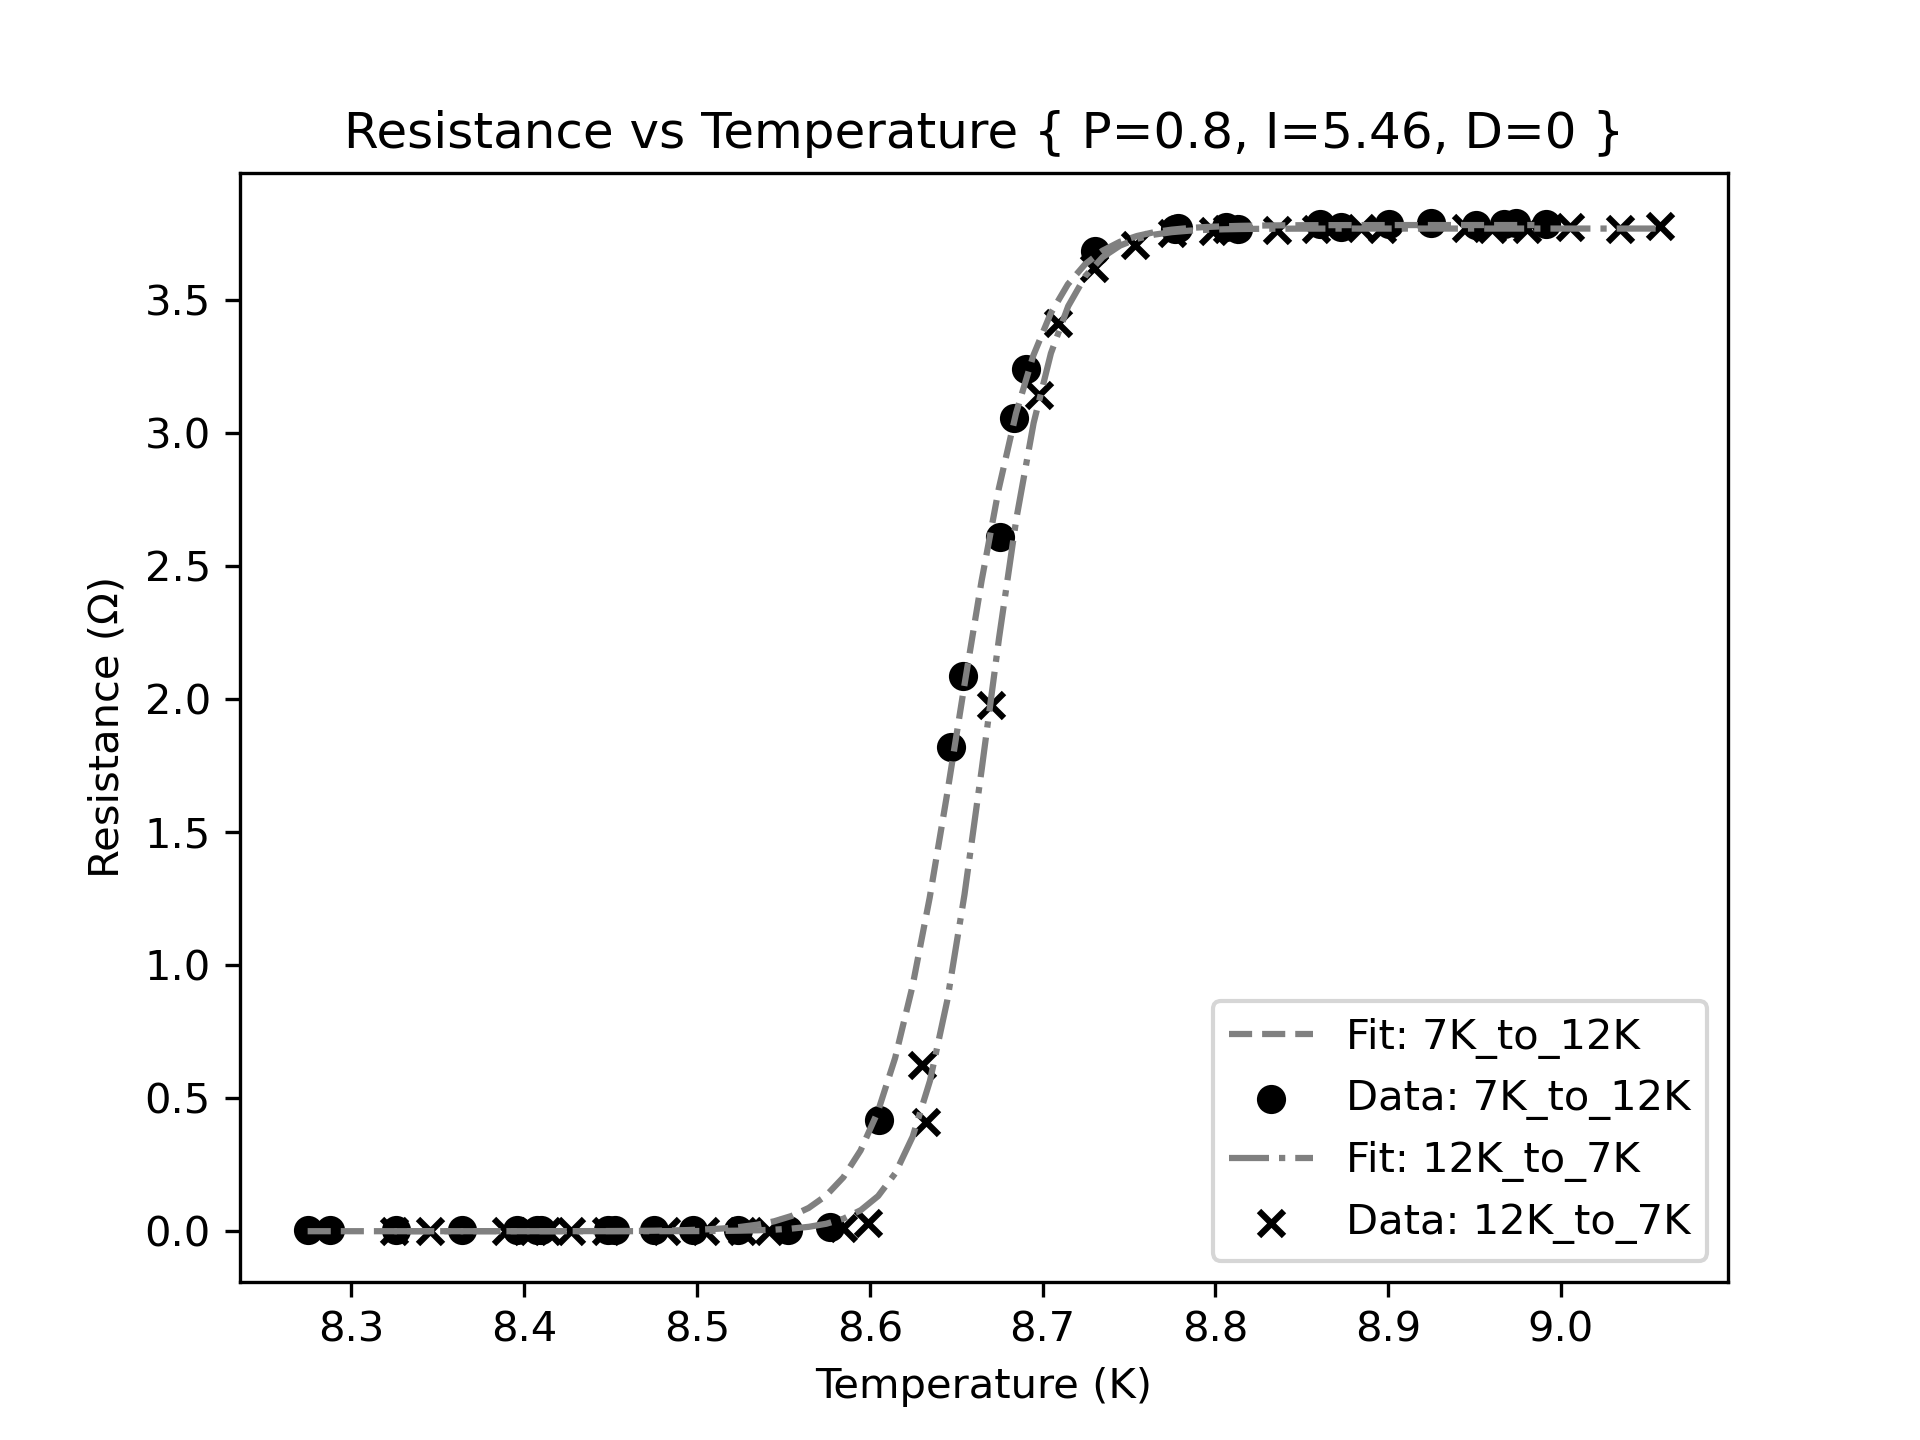
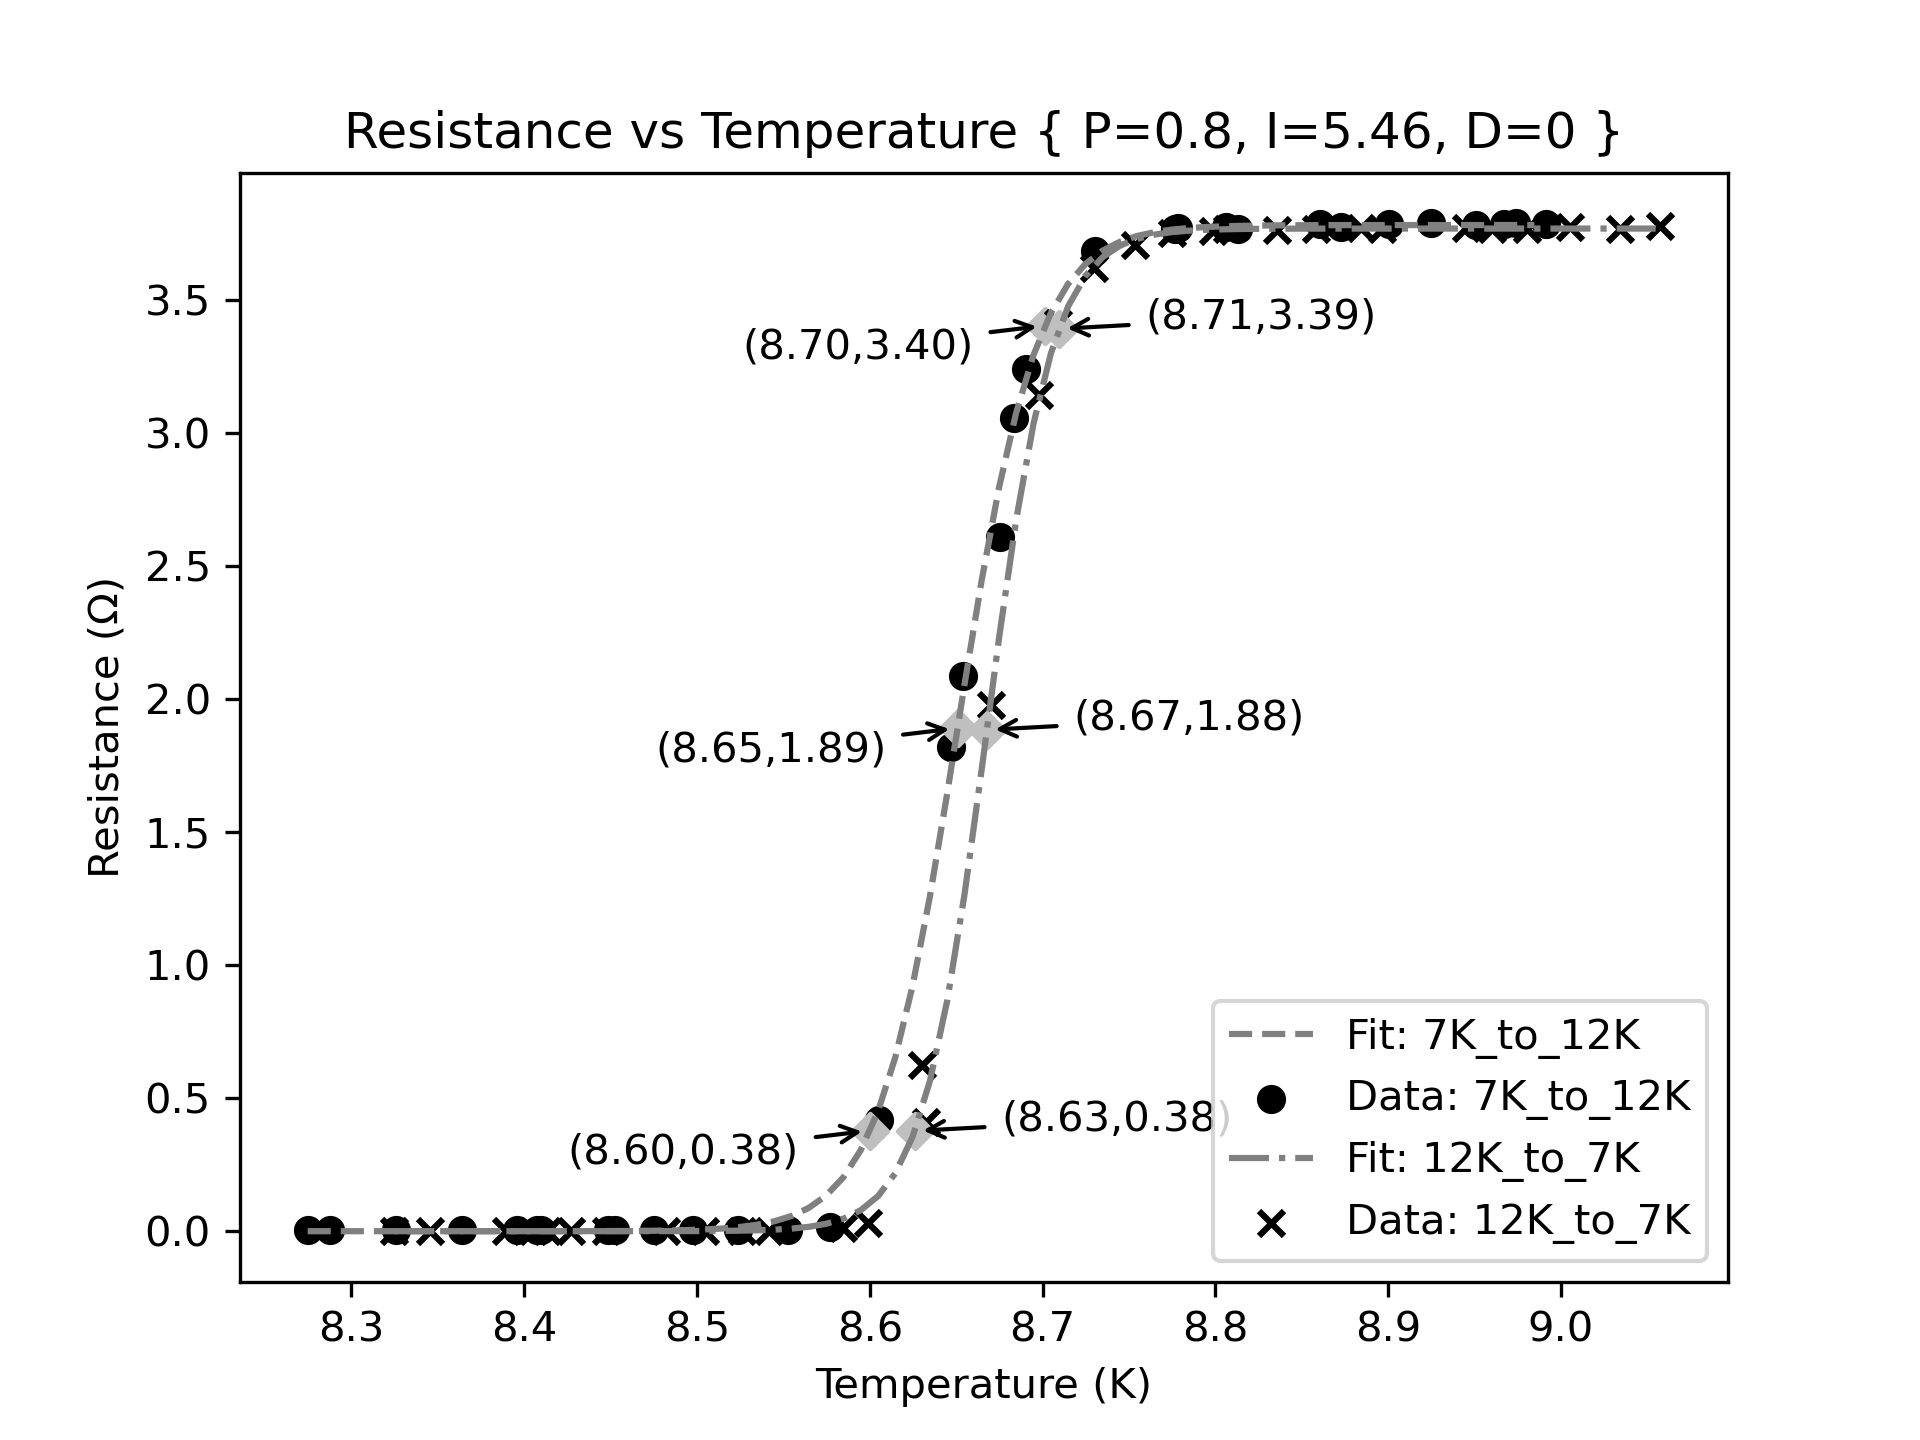
finnaly got the graph looking good fro 2.0 and 2.1 now to repeate for the rest (this isnt wortht the time investment)

diff --git a/2_Superconducting_Transition/2.0-1.py b/2_Superconducting_Transition/2.0-1.py
@@ -3,49 +3,87 @@ import matplotlib.pyplot as plt
 import re
 from pandas import read_csv
 from scipy.optimize import curve_fit
+from math import log10, floor
 
+def round_sig(x, sig=1):
+    return round(x, sig-int(floor(log10(abs(x))))-1)
 
 def sigmoid(x, a, b, c):
     return (a / (1 + np.exp(-b * (x + c))))
 
-def get_data(file, start, stop, current, init_vals):
-    file_data = read_csv(file)
-    volt_data = file_data.get("Amplitude (V)").to_numpy()[start:stop]
-    temp_data = file_data.get("Temperature (K)").to_numpy()[start:stop]
-    resi_data = volt_data/current
-    fit, _ = curve_fit(sigmoid, temp_data, resi_data, p0=init_vals)
-    temp_start, temp_stop = temp_data[0], temp_data[-1]
-    if temp_start < temp_stop:
-        temp_fit = np.arange(temp_start, temp_stop, 0.01)
-    else:
-        temp_fit = np.arange(temp_stop, temp_start, 0.01)
-    volt_fit = sigmoid(temp_fit, *fit)
-    label = re.findall(r'(\d{1,2}K_to_\d{1,2}K)', file)
-    return ((temp_data, resi_data, f"Data: {label[0]}"), (temp_fit, volt_fit, f"Fit: {label[0]}"), fit)
-
 def inv_sigmoid(y, a, b, c):
     return ((-1/b) * np.log((a/y) - 1)) - c
 
-def get_T_vals(func, a, b, c):
-    t_50 = func(0.5 * a, a, b, c)
-    t_10 = func(0.1 * a, a, b, c)
-    t_90 = func(0.9 * a, a, b, c)
-    return (t_50, t_90 - t_10, a)
+def print_fit_perams(label, ps, pcov):
+    print(f"{label}:")
+    pname = ["a", "b", "c"]
+    perr = np.sqrt(np.diag(pcov)) # one standard deviation errors
+    for p, err, name in zip(ps, perr, pname):
+        err = round_sig(err)
+        dec = len(str(err))-2
+        print(f"\t{name}: {p:1.{dec}f} ± {err}")
 
-data_20 = get_data("2.0_Ramp_7K_to_12K.csv", 60, 93, 9.5e-4, [3.762, 36, -8.7])
-data_21 = get_data("2.1_Ramp_12K_to_7K.csv", 133, 166, 9.5e-4, [3.76, 36, -8.65])
+def get_data(file, section, current, init_vals, fit_func):
+    file_data = read_csv(file)
+    # Extract the raw data lists from the data dictionary, and take a slice of the area of iterest
+    volt_data = file_data.get("Amplitude (V)").to_numpy()[section[0]:section[1]]
+    temp_data = file_data.get("Temperature (K)").to_numpy()[section[0]:section[1]]
+    # Convert the volateg value to a resistance
+    resi_data = volt_data/current
+    # Generate points for the fitted curve
+    temp_fit, resi_fit, fit, fit_cov = get_fit(fit_func, temp_data, resi_data, init_vals) 
+    # Pull out the temperature range from the file name
+    label = re.findall(r'(\d{1,2}K_to_\d{1,2}K)', file)
+    print_fit_perams(label, fit, fit_cov)
+    return ((temp_data, resi_data, f"Data: {label[0]}"), (temp_fit, resi_fit, f"Fit: {label[0]}"), fit)
 
+def get_fit(func, x, y, perams):
+    # Fit a sigmoid function to the raw data
+    fit, fit_cov = curve_fit(func, x, y, p0=perams)
+    # One data run if from low -> high temp and another is high -> low temp.
+    # therefore the range will be inverted for one of the runs
+    x1, x2 = x[0], x[-1]
+    larger  = lambda x1, x2: x1 if x1 > x2 else (x2 if x2 > x1 else 0)
+    smaller = lambda x1, x2: x1 if x1 < x2 else (x2 if x2 < x1 else 0)
+    x_fit = np.arange(smaller(x1, x2), larger(x1,x2), 0.01)
+    # generate the fitted curve data points
+    y_fit = sigmoid(x_fit, *fit)
+    return (x_fit, y_fit, fit, fit_cov)
+
+def get_t_annotations(func, offset, a, b, c):
+    result = []
+    a_vals = [x * a for x in [0.1, 0.5, 0.9]]
+    t_vals = func(a_vals, a, b, c).tolist()
+    t_off, a_off, i = offset
+    # just in case its not for some reason
+    if len(a_vals) != len(t_vals):
+        raise Exception(f"Length Issue:\na_vals = {a_vals}\nt_vals = {t_vals}")
+    for t, a in zip(t_vals, a_vals):
+        # Alternate between shifting the annotations left or right of the point
+        r_l = (-1) ** i
+        # Account for the length of the annotation
+        # the left shited labels need moved over more.
+        adjust = lambda r_l: 0.125 if r_l == 1 else 0
+        xy_text = [t - (adjust(r_l) + (t_off * r_l)), a - (adjust(r_l) + (a_off * r_l))]
+        label = f"({t:1.2f},{a:1.2f})"
+        result.append(((t, a), label, xy_text))
+    return result
+
+data_20 = get_data("2.0_Ramp_7K_to_12K.csv", (60, 93),   9.5e-4, [3.762, 36, -8.7], sigmoid)
+data_21 = get_data("2.1_Ramp_12K_to_7K.csv", (133, 166), 9.5e-4, [3.76, 36, -8.65], sigmoid)
 data_runs = (data_20, data_21)
 
 markers = ["o", "x", "D"]
 linestyles = ["dashed", "dashdot", "dotted"]
+
 fig, ax = plt.subplots()
-for i, data in enumerate(data_runs):
-    ax.plot(data[1][0], data[1][1], color=(0.5, 0.5, 0.5), linestyle=linestyles[i], label=data[1][2])
-    ax.scatter(data[0][0], data[0][1], color=(0, 0, 0), marker=markers[i], label=data[0][2])
-    t = get_T_vals(inv_sigmoid, *data[2])
-    print(f"{data[0][2]}:\t{t[2]}\nT_50:\t\t\t{t[0]}\nT_90 - T_10:\t\t{t[1]}\n")
-ax.hlines()
+for i, run in enumerate(data_runs):
+    ax.plot(run[1][0], run[1][1], color=(0.5, 0.5, 0.5), linestyle=linestyles[i], label=run[1][2])
+    ax.scatter(run[0][0], run[0][1], color=(0, 0, 0), marker=markers[i], label=run[0][2])
+    t = get_t_annotations(inv_sigmoid, (0.05, 0, i), *run[2]) # Get the annotations for the graph
+    for point in t:
+        ax.scatter(*point[0], color=(0.75, 0.75, 0.75), marker="D")
+        ax.annotate(point[1], xy=point[0], xycoords='data', xytext=point[2], arrowprops=dict(arrowstyle="->"))
 ax.set_title("Resistance vs Temperature { P=0.8, I=5.46, D=0 }")
 ax.set_xlabel("Temperature (K)")
 ax.set_ylabel("Resistance (Ω)")
